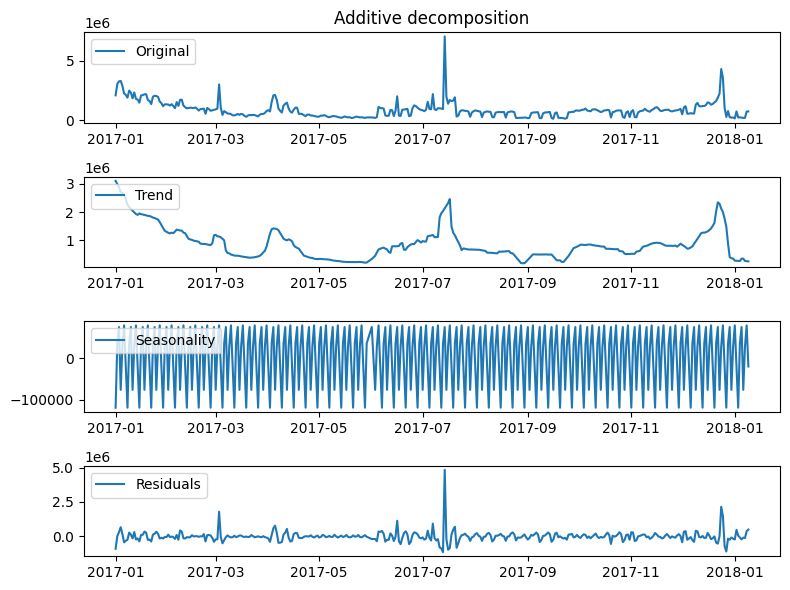
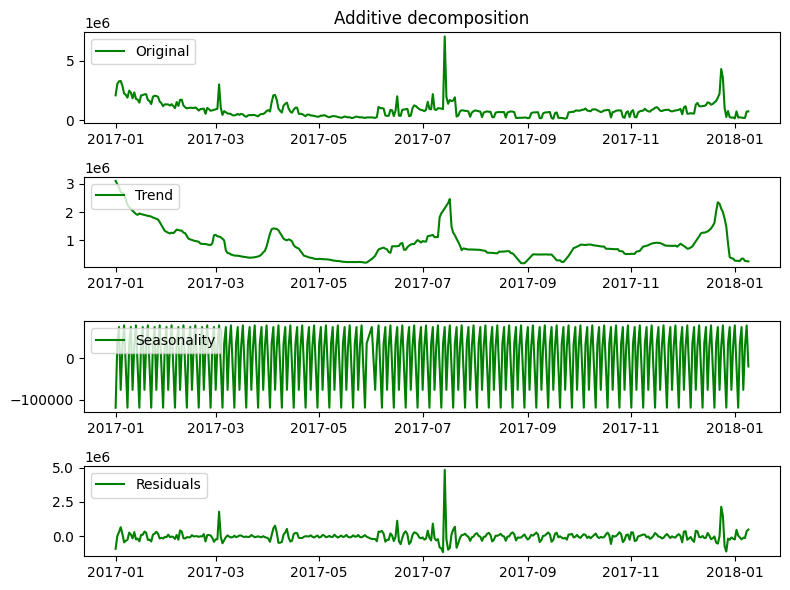
decomposizione

diff --git a/data_visualization.py b/data_visualization.py
@@ -59,19 +59,19 @@ def decompose(dataset, model):
 
     plt.subplot(411)
     plt.title(f'{model.capitalize()} decomposition')
-    plt.plot(dataset, label='Original')
+    plt.plot(dataset, label='Original', color='green')
     plt.legend(loc='upper left')
 
     plt.subplot(412)
-    plt.plot(trend, label='Trend')
+    plt.plot(trend, label='Trend', color='green')
     plt.legend(loc='upper left')
 
     plt.subplot(413)
-    plt.plot(seasonal, label='Seasonality')
+    plt.plot(seasonal, label='Seasonality', color='green')
     plt.legend(loc='upper left')
 
     plt.subplot(414)
-    plt.plot(residual, label='Residuals')
+    plt.plot(residual, label='Residuals', color='green')
     plt.legend(loc='upper left')
 
     plt.tight_layout()
